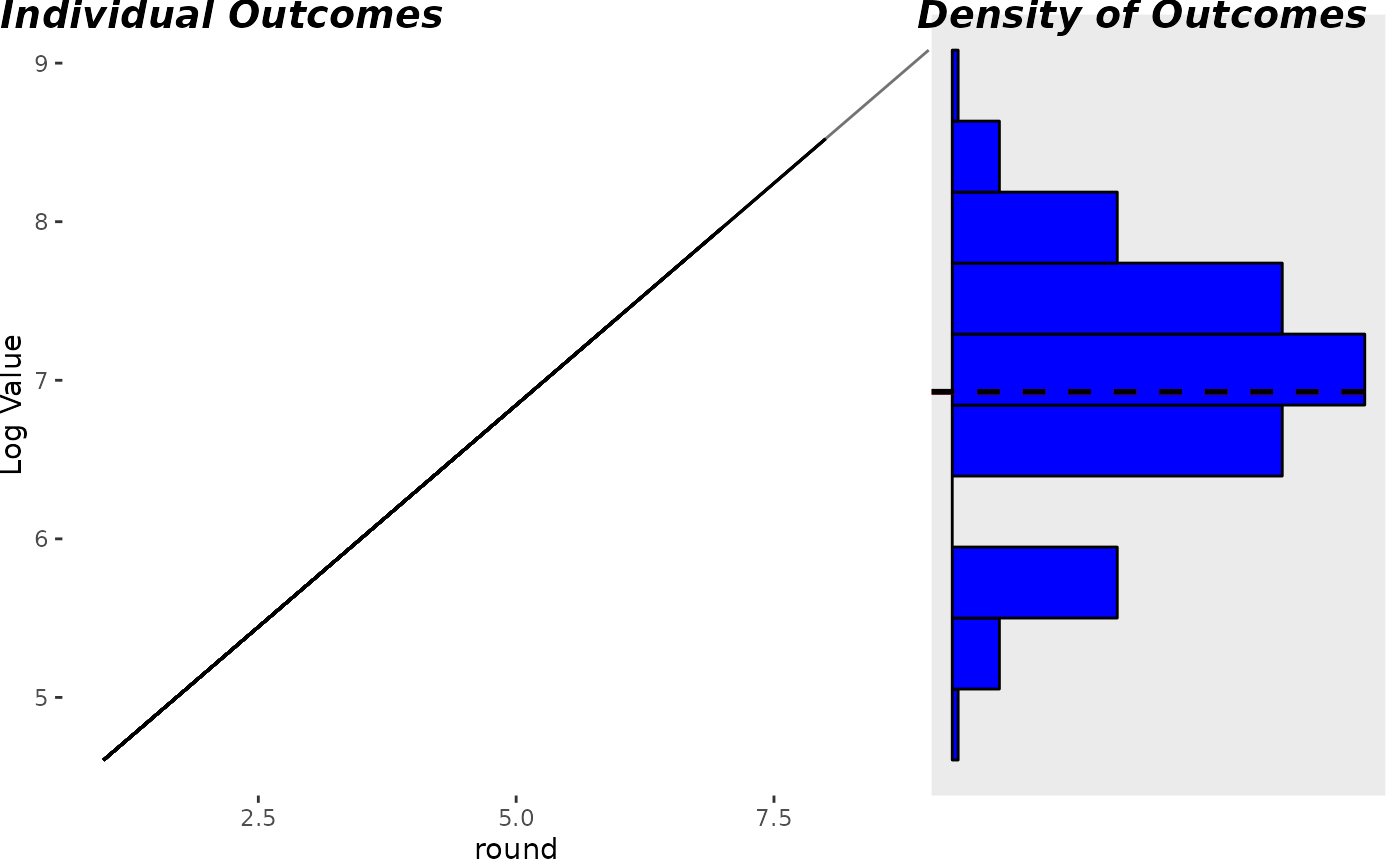
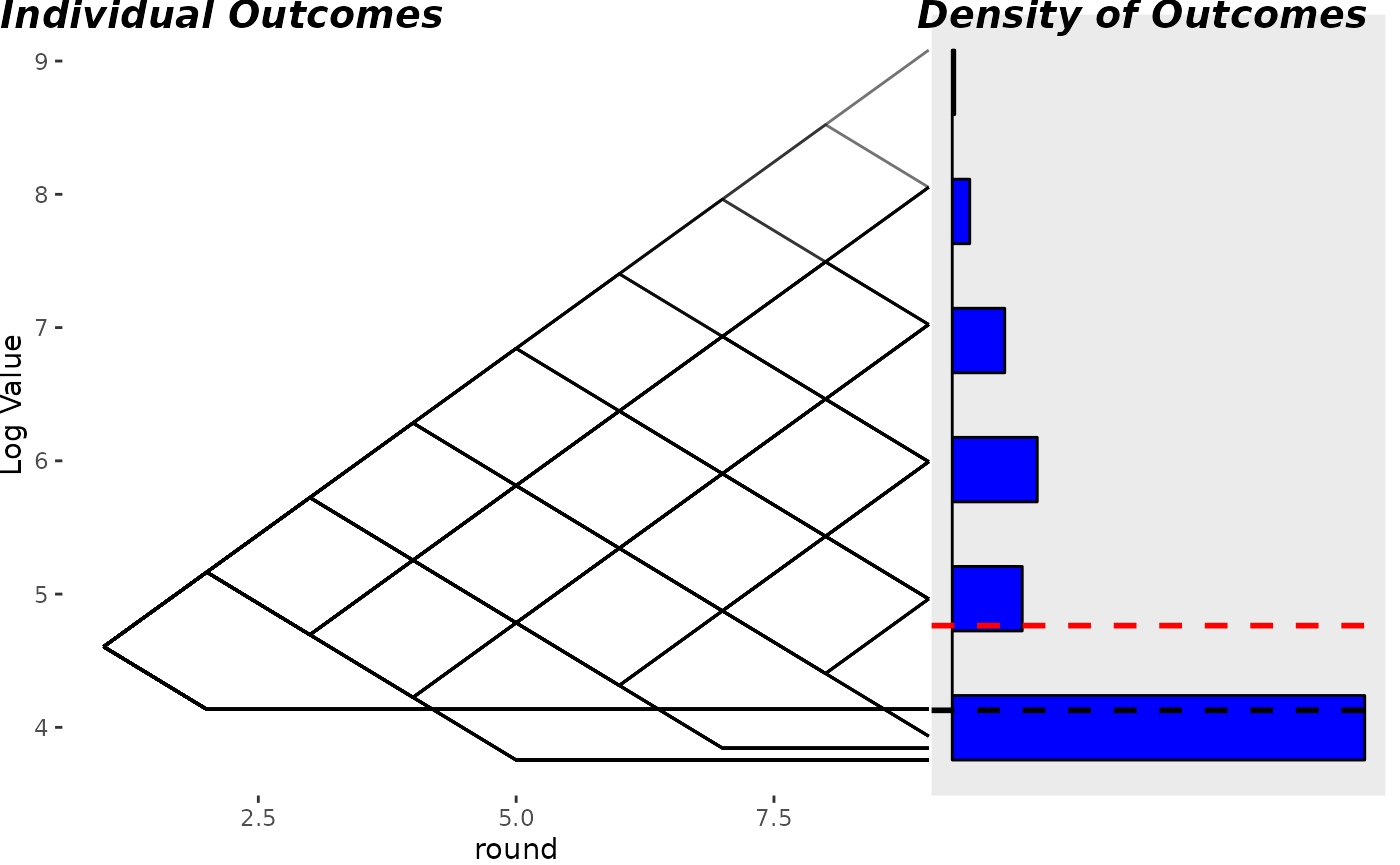
Deploying to gh-pages from @ misikoff/TailRiskAnalyzer@dbaab2c1a8d88d66e25ccbcb58bc1470f234dc41 🚀

diff --git a/articles/kelly.html b/articles/kelly.html
@@ -106,11 +106,30 @@
 <span>    <span class="va">df</span> <span class="op">&lt;-</span> <span class="va">df</span> <span class="op">|&gt;</span> <span class="fu"><a href="https://tibble.tidyverse.org/reference/add_row.html" class="external-link">add_row</a></span><span class="op">(</span>index <span class="op">=</span> <span class="va">i</span>, round <span class="op">=</span> <span class="va">round</span>, value <span class="op">=</span> <span class="va">value</span><span class="op">)</span></span>
 <span>  <span class="op">}</span></span>
 <span><span class="op">}</span></span>
+<span><span class="co">#&gt; Warning in any(toss_results): coercing argument of type 'double' to logical</span></span>
+<span></span>
+<span><span class="co">#&gt; Warning in any(toss_results): coercing argument of type 'double' to logical</span></span>
+<span></span>
+<span><span class="co">#&gt; Warning in any(toss_results): coercing argument of type 'double' to logical</span></span>
+<span></span>
+<span><span class="co">#&gt; Warning in any(toss_results): coercing argument of type 'double' to logical</span></span>
+<span></span>
+<span><span class="co">#&gt; Warning in any(toss_results): coercing argument of type 'double' to logical</span></span>
+<span></span>
+<span><span class="co">#&gt; Warning in any(toss_results): coercing argument of type 'double' to logical</span></span>
+<span></span>
+<span><span class="co">#&gt; Warning in any(toss_results): coercing argument of type 'double' to logical</span></span>
+<span></span>
+<span><span class="co">#&gt; Warning in any(toss_results): coercing argument of type 'double' to logical</span></span>
+<span></span>
+<span><span class="co">#&gt; Warning in any(toss_results): coercing argument of type 'double' to logical</span></span>
+<span></span>
+<span><span class="co">#&gt; Warning in any(toss_results): coercing argument of type 'double' to logical</span></span>
 <span></span>
 <span><span class="co"># get_kelly_bet(0.5, 0.5, 2)</span></span>
 <span></span>
 <span><span class="fu"><a href="../reference/create_side_by_side_plot.html">create_side_by_side_plot</a></span><span class="op">(</span><span class="va">df</span><span class="op">)</span></span>
-<span><span class="co">#&gt; [1] 6.273981</span></span></code></pre></div>
+<span><span class="co">#&gt; [1] 9.031643</span></span></code></pre></div>
 <p><img src="kelly_files/figure-html/unnamed-chunk-2-1.png" width="700"></p>
 <div class="section level2">
 <h2 id="theoretical-distribution-based-on-all-possible-outcomes">Theoretical Distribution, based on all possible outcomes<a class="anchor" aria-label="anchor" href="#theoretical-distribution-based-on-all-possible-outcomes"></a>
@@ -138,7 +157,7 @@
 <span><span class="op">}</span></span>
 <span></span>
 <span><span class="fu"><a href="../reference/create_side_by_side_plot.html">create_side_by_side_plot</a></span><span class="op">(</span><span class="va">df</span><span class="op">)</span></span>
-<span><span class="co">#&gt; [1] 6.843633</span></span></code></pre></div>
+<span><span class="co">#&gt; [1] 4.791395</span></span></code></pre></div>
 <p><img src="kelly_files/figure-html/unnamed-chunk-3-1.png" width="700"></p>
 </div>
   </main>

diff --git a/reference/coin_toss_seq.html b/reference/coin_toss_seq.html
@@ -59,7 +59,7 @@
 <span>  rounds <span class="op">=</span> <span class="fl">1</span>,</span>
 <span>  heads_prob <span class="op">=</span> <span class="fl">0.5</span>,</span>
 <span>  starting_capital <span class="op">=</span> <span class="fl">100</span>,</span>
-<span>  head_factor <span class="op">=</span> <span class="fl">2</span>,</span>
+<span>  heads_factor <span class="op">=</span> <span class="fl">2</span>,</span>
 <span>  tails_factor <span class="op">=</span> <span class="fl">0.5</span>,</span>
 <span>  min_bet <span class="op">=</span> <span class="fl">0</span>,</span>
 <span>  max_payout <span class="op">=</span> <span class="cn">Inf</span>,</span>
@@ -81,7 +81,7 @@
 <dd><p>Initial amount of money</p></dd>
 
 
-<dt>head_factor</dt>
+<dt>heads_factor</dt>
 <dd><p>Factor to multiply bet by if heads</p></dd>
 
 
@@ -112,6 +112,7 @@ toss results (list of coin toss results), and payout (integer)</p>
     <div class="section level2">
     <h2 id="ref-examples">Examples<a class="anchor" aria-label="anchor" href="#ref-examples"></a></h2>
     <div class="sourceCode"><pre class="sourceCode r"><code><span class="r-in"><span><span class="fu">coin_toss_seq</span><span class="op">(</span><span class="fl">10</span>, <span class="fl">0.5</span>, <span class="fl">100</span>, <span class="fl">2</span>, <span class="fl">0.5</span>, <span class="fl">1</span>, <span class="fl">1000</span>, <span class="fl">0.5</span><span class="op">)</span></span></span>
+<span class="r-wrn co"><span class="r-pr">#&gt;</span> <span class="warning">Warning: </span>coercing argument of type 'double' to logical</span>
 <span class="r-out co"><span class="r-pr">#&gt;</span> $results</span>
 <span class="r-out co"><span class="r-pr">#&gt;</span>  [1] 100.0000 150.0000 112.5000  84.3750 126.5625 189.8438 284.7656 427.1484</span>
 <span class="r-out co"><span class="r-pr">#&gt;</span>  [9] 640.7227 480.5420 360.4065</span>

diff --git a/reference/calc_score_for_coin_game.html b/reference/calc_score_for_coin_game.html
@@ -58,7 +58,7 @@
     <div class="sourceCode"><pre class="sourceCode r"><code><span><span class="fu">calc_score_for_coin_game</span><span class="op">(</span></span>
 <span>  <span class="va">toss_results</span>,</span>
 <span>  starting_capital <span class="op">=</span> <span class="fl">100</span>,</span>
-<span>  head_factor <span class="op">=</span> <span class="fl">2</span>,</span>
+<span>  heads_factor <span class="op">=</span> <span class="fl">2</span>,</span>
 <span>  tails_factor <span class="op">=</span> <span class="fl">0.5</span>,</span>
 <span>  min_bet <span class="op">=</span> <span class="fl">0</span>,</span>
 <span>  max_payout <span class="op">=</span> <span class="cn">Inf</span>,</span>
@@ -69,14 +69,14 @@
     <div class="section level2">
     <h2 id="arguments">Arguments<a class="anchor" aria-label="anchor" href="#arguments"></a></h2>
     <dl><dt>toss_results</dt>
-<dd><p>A sequence of 1s and 0s, representing heads and tails</p></dd>
+<dd><p>A sequence of 1s and 2s, representing heads and tails</p></dd>
 
 
 <dt>starting_capital</dt>
 <dd><p>Initial amount of money</p></dd>
 
 
-<dt>head_factor</dt>
+<dt>heads_factor</dt>
 <dd><p>Factor to multiply bet by if heads</p></dd>
 
 

diff --git a/reference/generate_die_sequences.html b/reference/generate_die_sequences.html
@@ -79,10 +79,10 @@
     <h2 id="ref-examples">Examples<a class="anchor" aria-label="anchor" href="#ref-examples"></a></h2>
     <div class="sourceCode"><pre class="sourceCode r"><code><span class="r-in"><span><span class="fu"><a href="generate_coin_sequences.html">generate_coin_sequences</a></span><span class="op">(</span><span class="fl">2</span><span class="op">)</span></span></span>
 <span class="r-out co"><span class="r-pr">#&gt;</span>      Var1 Var2</span>
-<span class="r-out co"><span class="r-pr">#&gt;</span> [1,]    0    0</span>
-<span class="r-out co"><span class="r-pr">#&gt;</span> [2,]    1    0</span>
-<span class="r-out co"><span class="r-pr">#&gt;</span> [3,]    0    1</span>
-<span class="r-out co"><span class="r-pr">#&gt;</span> [4,]    1    1</span>
+<span class="r-out co"><span class="r-pr">#&gt;</span> [1,]    1    1</span>
+<span class="r-out co"><span class="r-pr">#&gt;</span> [2,]    2    1</span>
+<span class="r-out co"><span class="r-pr">#&gt;</span> [3,]    1    2</span>
+<span class="r-out co"><span class="r-pr">#&gt;</span> [4,]    2    2</span>
 </code></pre></div>
     </div>
   </main><aside class="col-md-3"><nav id="toc"><h2>On this page</h2>

diff --git a/reference/generate_coin_sequences.html b/reference/generate_coin_sequences.html
@@ -75,10 +75,10 @@
     <h2 id="ref-examples">Examples<a class="anchor" aria-label="anchor" href="#ref-examples"></a></h2>
     <div class="sourceCode"><pre class="sourceCode r"><code><span class="r-in"><span><span class="fu">generate_coin_sequences</span><span class="op">(</span><span class="fl">2</span><span class="op">)</span></span></span>
 <span class="r-out co"><span class="r-pr">#&gt;</span>      Var1 Var2</span>
-<span class="r-out co"><span class="r-pr">#&gt;</span> [1,]    0    0</span>
-<span class="r-out co"><span class="r-pr">#&gt;</span> [2,]    1    0</span>
-<span class="r-out co"><span class="r-pr">#&gt;</span> [3,]    0    1</span>
-<span class="r-out co"><span class="r-pr">#&gt;</span> [4,]    1    1</span>
+<span class="r-out co"><span class="r-pr">#&gt;</span> [1,]    1    1</span>
+<span class="r-out co"><span class="r-pr">#&gt;</span> [2,]    2    1</span>
+<span class="r-out co"><span class="r-pr">#&gt;</span> [3,]    1    2</span>
+<span class="r-out co"><span class="r-pr">#&gt;</span> [4,]    2    2</span>
 </code></pre></div>
     </div>
   </main><aside class="col-md-3"><nav id="toc"><h2>On this page</h2>

diff --git a/reference/get_coin_game_results.html b/reference/get_coin_game_results.html
@@ -58,7 +58,7 @@
     <div class="sourceCode"><pre class="sourceCode r"><code><span><span class="fu">get_coin_game_results</span><span class="op">(</span></span>
 <span>  <span class="va">toss_results</span>,</span>
 <span>  starting_capital <span class="op">=</span> <span class="fl">100</span>,</span>
-<span>  head_factor <span class="op">=</span> <span class="fl">2</span>,</span>
+<span>  heads_factor <span class="op">=</span> <span class="fl">2</span>,</span>
 <span>  tails_factor <span class="op">=</span> <span class="fl">0.5</span>,</span>
 <span>  min_bet <span class="op">=</span> <span class="fl">0</span>,</span>
 <span>  max_payout <span class="op">=</span> <span class="cn">Inf</span>,</span>
@@ -76,7 +76,7 @@
 <dd><p>Initial amount of money</p></dd>
 
 
-<dt>head_factor</dt>
+<dt>heads_factor</dt>
 <dd><p>Factor to multiply bet by if heads</p></dd>
 
 

diff --git a/articles/dice.html b/articles/dice.html
@@ -111,7 +111,7 @@
 <span><span class="op">}</span></span>
 <span></span>
 <span><span class="fu"><a href="../reference/create_side_by_side_plot.html">create_side_by_side_plot</a></span><span class="op">(</span><span class="va">df</span><span class="op">)</span></span>
-<span><span class="co">#&gt; [1] 4.502584</span></span></code></pre></div>
+<span><span class="co">#&gt; [1] 4.530506</span></span></code></pre></div>
 <p><img src="dice_files/figure-html/unnamed-chunk-2-1.png" width="700"></p>
 </div>
 <div class="section level2">
